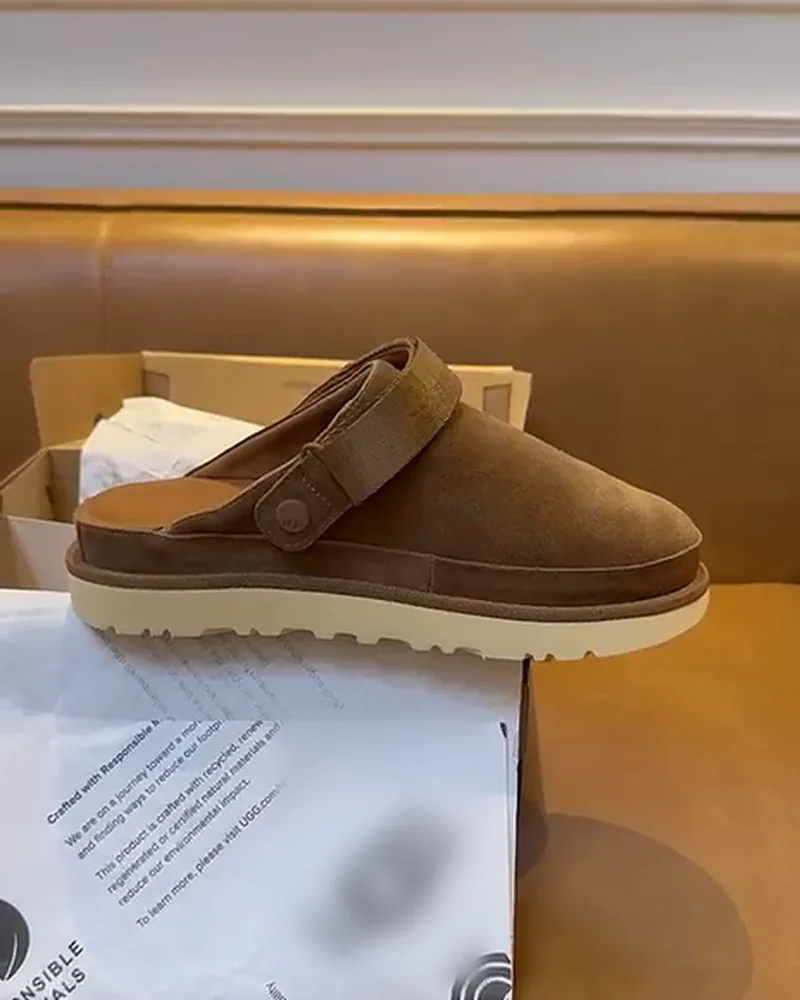
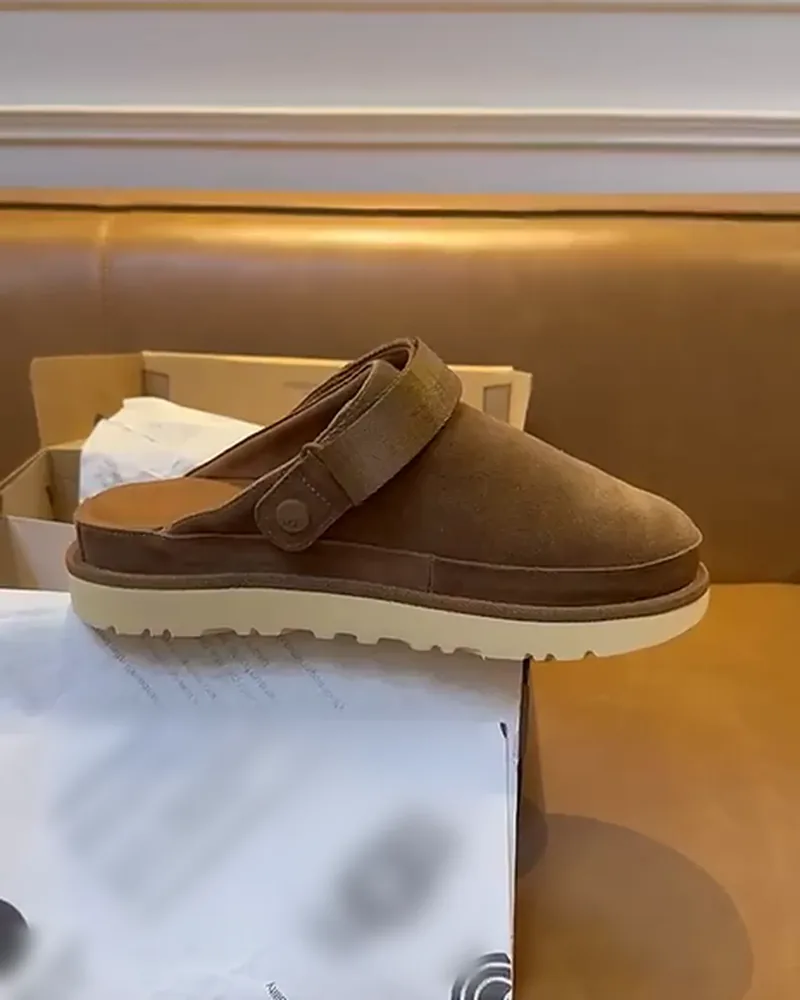
Aperçu Le Débarras : V8, finition du catalogue
- #748 : veste de survêtement, survêtement 2, ensemble et ensemble 2 quittent le Football pour Vêtements > Survêtements
- #751 : Vêtements en 4 rayons (Hauts & pulls, Vestes & doudounes, Survêtements, Accessoires) ; anciennes adresses de rayon redirigées (données : aliases)
- #749 : noms parlants sans numéro, slogans fidèles aux articles, plus aucun texte de taille, 8 coups de cœur rangés par rang, rayons rangés par type puis prix, 5 vues en double retirées, « 3ᵉ »
- #753 : accueil, promo et couvertures refaites avec des photos entières ; étiquettes d'emballage et de col encore lisibles floutées
- #752 : menu à 3 univers sans nom coupé sur téléphone, carrousel qui montre la carte suivante, pas de compte en double sur les rayons seuls

Changed region(s): [[0.0625, 0.713, 0.3438, 0.93], [0.0, 0.93, 0.125, 1.0]]

diff --git a/assets/app.css b/assets/app.css
@@ -247,10 +247,13 @@ p { margin: 0; }
 .unav { position: sticky; top: calc(var(--topbar) + var(--safe-t)); z-index: 35; padding: 4px var(--pad) 10px; background: rgba(247, 239, 228, .96); -webkit-backdrop-filter: blur(14px); backdrop-filter: blur(14px); }
 .unav__bar { display: grid; grid-template-columns: repeat(var(--n, 2), minmax(0, 1fr)); gap: 8px; }
 @media (max-width: 719px) {
-  /* Plus de deux univers sur téléphone : la barre défile de côté plutôt que de couper les noms. */
-  .unav__bar.is-many { grid-template-columns: none; grid-auto-flow: column; grid-auto-columns: max-content; overflow-x: auto; scrollbar-width: none; overscroll-behavior-x: contain; }
+  /* Plus de deux univers sur téléphone : chaque bouton prend la largeur de son nom (police un peu plus petite) ; la
+     barre ne défile de côté que si les noms ne tiennent pas tous sur la ligne. Aucun nom n'est coupé. */
+  .unav__bar.is-many { display: flex; gap: 6px; overflow-x: auto; scrollbar-width: none; overscroll-behavior-x: contain; }
   .unav__bar.is-many::-webkit-scrollbar { display: none; }
-  .unav__bar.is-many .unav__btn { padding: 0 14px; }
+  .unav__bar.is-many .unav__item { flex: 1 0 auto; }
+  .unav__bar.is-many .unav__btn { padding: 0 4px; gap: 3px; font-size: clamp(11px, 3.3vw, 16px); }
+  .unav__bar.is-many .unav__btn svg { width: 11px; height: 11px; }
 }
 .unav__btn {
   position: relative; width: 100%; min-height: 48px; padding: 0 8px; display: flex; align-items: center; justify-content: center; gap: 6px;
@@ -416,6 +419,8 @@ p { margin: 0; }
 .universe + .universe { margin-top: 26px; }
 .universe__title { display: flex; align-items: baseline; gap: 10px; padding: 0 var(--pad); margin: 0 0 12px; font-size: 19px; color: var(--chocolat); }
 .universe__title small { font-family: var(--font); font-style: normal; text-transform: none; font-size: 12px; font-weight: 800; letter-spacing: .06em; color: var(--marron-chaud); }
+/* Rayon seul dans son univers : le titre de l'univers donne déjà le nombre de pièces, pas de doublon sur la vignette. */
+.tiles[data-n="1"] .tile__count { display: none; }
 @media (max-width: 719px) {
   /* Nombre impair de catégories : la dernière vignette prend toute la largeur (pas de case vide). */
   .tiles .tile:last-child:nth-child(odd) { grid-column: 1 / -1; }
@@ -453,7 +458,7 @@ p { margin: 0; }
 .chip-video { position: absolute; z-index: 2; right: 10px; bottom: 10px; display: inline-flex; align-items: center; gap: 5px; padding: 5px 9px 5px 7px; border-radius: 999px; background: rgba(var(--ombre), .78); color: var(--blanc-casse); font-size: 11px; font-weight: 700; }
 .chip-video svg { width: 12px; height: 12px; }
 .card.is-sold .ph img { filter: grayscale(.5) sepia(.2); opacity: .72; }
-.rail .card { flex: none; width: 44vw; max-width: 220px; scroll-snap-align: start; }
+.rail .card { flex: none; width: 36vw; max-width: 220px; scroll-snap-align: start; } /* 2 cartes et la moitié de la 3e : on voit que ça défile */
 
 /* ---------- Page catégorie : la mascotte présente la catégorie ---------- */
 .cat-head { padding: 18px var(--pad) 18px; display: grid; gap: 14px; }

diff --git a/assets/app.js b/assets/app.js
@@ -669,7 +669,10 @@ async function openCatalog(welcome, m) {
 function viewHome() {
   const c = state.catalog;
   document.title = `${state.info.brand.name} — Catalogue privé`;
-  const featured = c.products.filter((p) => p.featured);
+  // Coups de cœur : les pièces en vedette (données : featured), rangées par leur rang (featured = 1, 2, 3…) s'il est
+  // donné, sinon dans l'ordre du catalogue (featured = true).
+  const rank = (p) => (typeof p.featured === 'number' ? p.featured : Infinity);
+  const featured = c.products.filter((p) => p.featured).sort((a, b) => (rank(a) === rank(b) ? 0 : rank(a) - rank(b)));
   const home = c.home || {};
   const heroImg = h('img', { src: mediaUrl(home.heroMobile || home.heroDesktop || ''), alt: '', decoding: 'async', fetchpriority: 'high' });
   const hero = home.heroMobile || home.heroDesktop
@@ -704,7 +707,7 @@ function viewHome() {
       h('section', { class: 'how' },
         h('h2', {}, 'Une pièce vous plaît ?'),
         h('ol', {},
-          h('li', {}, 'Ouvrez sa fiche : photos, vidéo, tailles et prix.'),
+          h('li', {}, 'Ouvrez sa fiche : photos, coloris et prix.'),
           h('li', {}, 'Écrivez-nous en un geste, l’article est indiqué dans le message.'),
           h('li', {}, 'On vous répond vite pour la réserver.')),
         h('div', { class: 'how__cta' }, contactButtons(null))),
@@ -712,7 +715,14 @@ function viewHome() {
 }
 
 function viewCategory(id) {
-  const cat = state.maps.cat.get(id);
+  let cat = state.maps.cat.get(id);
+  // Ancienne adresse d'un rayon regroupé (données : category.aliases) : l'adresse devient celle du nouveau rayon.
+  const to = cat ? null : state.catalog.categories.find((x) => Array.isArray(x.aliases) && x.aliases.includes(id));
+  if (to) {
+    window.history.replaceState(window.history.state, '', `${BASE}/c/${to.id}`);
+    cat = to;
+    id = to.id;
+  }
   if (!cat) return viewNotFound();
   const items = state.maps.byCat.get(id) || [];
   const u = state.maps.uniOf.get(id);

diff --git a/404.html b/404.html
@@ -15,8 +15,8 @@
 <link rel="apple-touch-icon" href="/le-debarras-apercu/apple-touch-icon.png">
 <link rel="preload" as="image" href="/le-debarras-apercu/brand/brand-mascotte.webp" fetchpriority="high">
[1 lines of base64/hex data omitted]
-<link rel="stylesheet" href="/le-debarras-apercu/assets/app.css?v=5">
-<script type="module" src="/le-debarras-apercu/assets/app.js?v=5"></script>
+<link rel="stylesheet" href="/le-debarras-apercu/assets/app.css?v=6">
+<script type="module" src="/le-debarras-apercu/assets/app.js?v=6"></script>
 </head>
 <body>
 <div id="app"></div>

diff --git a/index.html b/index.html
@@ -15,8 +15,8 @@
 <link rel="apple-touch-icon" href="/le-debarras-apercu/apple-touch-icon.png">
 <link rel="preload" as="image" href="/le-debarras-apercu/brand/brand-mascotte.webp" fetchpriority="high">
[1 lines of base64/hex data omitted]
-<link rel="stylesheet" href="/le-debarras-apercu/assets/app.css?v=5">
-<script type="module" src="/le-debarras-apercu/assets/app.js?v=5"></script>
+<link rel="stylesheet" href="/le-debarras-apercu/assets/app.css?v=6">
+<script type="module" src="/le-debarras-apercu/assets/app.js?v=6"></script>
 </head>
 <body>
 <div id="app"></div>
